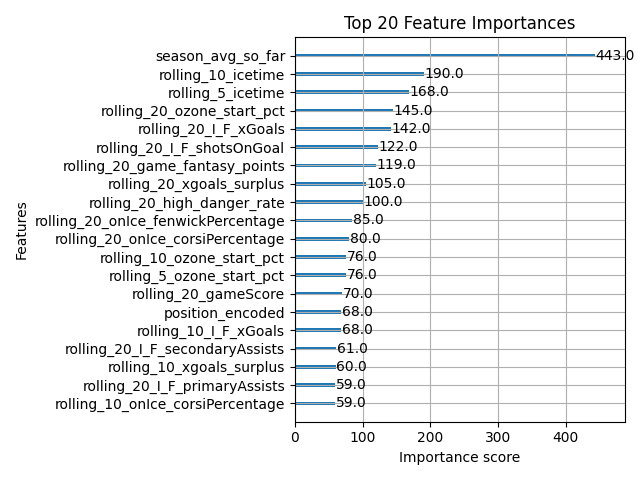
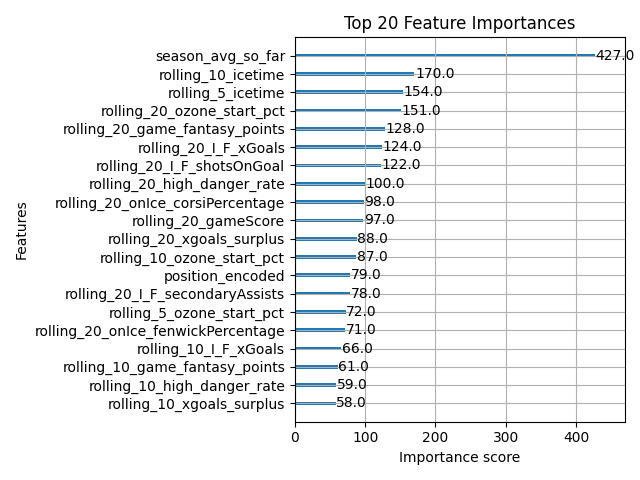
adding neural net and advanced features

diff --git a/src/models/lstmPickups.py b/src/models/lstmPickups.py
@@ -1,0 +1,140 @@
+import pandas as pd
+import torch
+import torch.nn as nn
+import numpy as np
+import os
+from sklearn.metrics import roc_auc_score
+from torch.utils.data import DataLoader
+from src.features.lstmFeatures import buildSequences, HockeySequenceDataset, SEQUENCE_FEATURES, loadLSTMData
+from sklearn.preprocessing import StandardScaler
+import pickle
+
+BASE_DIR = os.path.dirname(os.path.abspath(__file__))
+MODEL_PATH = os.path.join(BASE_DIR, '..', '..', 'models', 'lstm', 'model.pt')
+SCALER_PATH = os.path.join(BASE_DIR, '..', '..', 'models', 'lstm', 'scaler.pkl')
+
+class LSTMPickupModel(nn.Module):
+    def __init__(self, input_size, hidden_size=128, num_layers=2, dropout=0.3):
+        super().__init__()
+        self.lstm = nn.LSTM(input_size, hidden_size, num_layers, 
+                           batch_first=True, dropout=dropout)
+        self.fc = nn.Linear(hidden_size, 1)
+        self.sigmoid = nn.Sigmoid()
+
+    def forward(self, x):
+        _, (hidden, _) = self.lstm(x)
+        out = self.fc(hidden[-1])
+        return out.squeeze(1)
+    
+def train(epochs=30, batch_size=512, hidden_size=64, num_layers=2, dropout=0.3):
+    from src.features.mlFeatures import buildLabel
+    device = torch.device('cuda' if torch.cuda.is_available() else 'cpu')
+    print(f"Training on: {device}")
+
+    best_auc = 0
+    patience = 5
+    epochs_without_improvement = 0
+
+    lstm_df = loadLSTMData()
+    lstm_df = buildLabel(lstm_df)
+    lstm_df = lstm_df[lstm_df['season'] <= 2024]
+
+    train_df = lstm_df[lstm_df['season'] <= 2022]
+    val_df = lstm_df[lstm_df['season'] == 2023]
+
+    
+    X_train, y_train, _ = buildSequences(train_df)
+    X_val, y_val, _ = buildSequences(val_df)
+    scaler = StandardScaler()
+    X_train = scaler.fit_transform(X_train.reshape(-1, X_train.shape[-1])).reshape(X_train.shape)
+    X_val = scaler.transform(X_val.reshape(-1, X_val.shape[-1])).reshape(X_val.shape)
+    
+    train_loader = DataLoader(HockeySequenceDataset(X_train, y_train), 
+                              batch_size=batch_size, shuffle=True)
+    val_loader = DataLoader(HockeySequenceDataset(X_val, y_val), 
+                            batch_size=batch_size, shuffle=False)
+
+    model = LSTMPickupModel(input_size=len(SEQUENCE_FEATURES), 
+                            hidden_size=hidden_size, 
+                            num_layers=num_layers, 
+                            dropout=dropout).to(device)
+
+    optimizer = torch.optim.Adam(model.parameters(), lr=1e-3)
+    criterion = nn.BCEWithLogitsLoss()
+
+    for epoch in range(epochs):
+        model.train()
+        for X_batch, y_batch in train_loader:
+            X_batch, y_batch = X_batch.to(device), y_batch.to(device)
+            optimizer.zero_grad()
+            preds = model(X_batch)
+            loss = criterion(preds, y_batch)
+            loss.backward()
+            torch.nn.utils.clip_grad_norm_(model.parameters(), max_norm=1.0)
+            optimizer.step()
+
+        # Validation
+        model.eval()
+        all_preds, all_labels = [], []
+        with torch.no_grad():
+            for X_batch, y_batch in val_loader:
+                X_batch = X_batch.to(device)
+                preds = model(X_batch).cpu().numpy()
+                all_preds.extend(preds)
+                all_labels.extend(y_batch.numpy())
+
+        val_auc = roc_auc_score(all_labels, all_preds)
+        print(f"Epoch {epoch+1}/{epochs} — Val AUC: {val_auc:.4f}")
+
+        if val_auc > best_auc:
+            best_auc = val_auc
+            epochs_without_improvement = 0
+            save(model)  # only save when improved
+        else:
+            epochs_without_improvement += 1
+            if epochs_without_improvement >= patience:
+                print(f"Early stopping at epoch {epoch+1}, best AUC: {best_auc:.4f}")
+                break
+
+    with open(SCALER_PATH, 'wb') as f:
+        pickle.dump(scaler, f)
+
+def predict(df):
+    device = torch.device('cuda' if torch.cuda.is_available() else 'cpu')
+    model = load().to(device)
+
+    X, _, player_ids = buildSequences(df, has_label=False)
+    
+    with open(SCALER_PATH, 'rb') as f:
+        scaler = pickle.load(f)
+    X = scaler.transform(X.reshape(-1, X.shape[-1])).reshape(X.shape)
+    dummy_y = np.zeros(len(X), dtype=np.float32)  # Placeholder since we don't have labels for prediction
+    dataset = HockeySequenceDataset(X, dummy_y)
+    loader = DataLoader(dataset, batch_size=512, shuffle=False)
+
+    all_preds = []
+    model.eval()
+    with torch.no_grad():
+        for X_batch, _ in loader:
+            X_batch = X_batch.to(device)
+            preds = torch.sigmoid(model(X_batch)).cpu().numpy()
+            all_preds.extend(preds)
+
+    preds_series = pd.Series(all_preds, index=player_ids)
+    return preds_series.groupby(level=0).last()
+
+def save(model, hidden_size, num_layers):
+    os.makedirs(os.path.dirname(MODEL_PATH), exist_ok=True)
+    torch.save({'state_dict': model.state_dict(), 
+                'hidden_size': hidden_size, 
+                'num_layers': num_layers}, MODEL_PATH)
+
+
+def load():
+    checkpoint = torch.load(MODEL_PATH, weights_only=True)
+    model = LSTMPickupModel(input_size=len(SEQUENCE_FEATURES),
+                            hidden_size=checkpoint['hidden_size'],
+                            num_layers=checkpoint['num_layers'])
+    model.load_state_dict(checkpoint['state_dict'])
+    model.eval()
+    return model

diff --git a/src/features/lstmFeatures.py b/src/features/lstmFeatures.py
@@ -1,0 +1,70 @@
+import numpy as np
+import pandas as pd
+import torch
+import os
+from torch.utils.data import Dataset
+
+SEQUENCE_LENGTH = 10
+
+SEQUENCE_FEATURES = [
+    'I_F_goals', 'I_F_primaryAssists', 'I_F_secondaryAssists',
+    'I_F_shotsOnGoal', 'I_F_xGoals', 'gameScore', 'icetime',
+    'onIce_corsiPercentage', 'onIce_fenwickPercentage',
+    'ozone_start_pct', 'high_danger_rate', 'position_encoded'
+]
+COLS_NEEDED = [
+    'playerId', 'name', 'season', 'gameDate', 'situation', 'position',
+    'I_F_goals', 'I_F_primaryAssists', 'I_F_secondaryAssists',
+    'I_F_shotsOnGoal', 'I_F_xGoals', 'gameScore', 'icetime',
+    'onIce_corsiPercentage', 'onIce_fenwickPercentage',
+    'I_F_oZoneShiftStarts', 'I_F_dZoneShiftStarts',
+    'I_F_highDangerShots'
+]
+
+def loadLSTMData():
+    RAW_DATA_DIR_LOCAL = os.path.join(os.path.dirname(os.path.abspath(__file__)), '../..', 'data', 'raw')
+    historical = pd.read_csv(os.path.join(RAW_DATA_DIR_LOCAL, '2008_to_2024.csv'), usecols=COLS_NEEDED)
+    historical = historical[historical['situation'] == 'all']
+    historical = historical[historical['season'] >= 2016]
+    current = pd.read_csv(os.path.join(RAW_DATA_DIR_LOCAL, 'moneypuck_current.csv'), usecols=COLS_NEEDED)
+    current = current[current['situation'] == 'all']
+    df = pd.concat([historical, current], ignore_index=True).copy()
+    df.sort_values(by=['playerId', 'gameDate'], inplace=True)
+    df['ozone_start_pct'] = df['I_F_oZoneShiftStarts'] / (df['I_F_oZoneShiftStarts'] + df['I_F_dZoneShiftStarts']).replace(0, 1)
+    df['high_danger_rate'] = df['I_F_highDangerShots'] / df['I_F_shotsOnGoal'].replace(0, 1)
+    position_mapping = {'C': 0, 'L': 1, 'R': 2, 'D': 3}
+    df['position_encoded'] = df['position'].map(position_mapping)
+    df['game_fantasy_points'] = (df['I_F_goals'] * 3 +
+                              df['I_F_primaryAssists'] * 2 +
+                              df['I_F_secondaryAssists'] * 2 +
+                              df['I_F_shotsOnGoal'] * 0.15)
+
+    df['season_avg_so_far'] = (df.groupby(['playerId', 'season'])['game_fantasy_points']
+                                .transform(lambda x: x.shift(1).expanding().mean()))
+    return df
+
+def buildSequences(df, sequence_length=SEQUENCE_LENGTH, has_label=True):
+    X, y, player_ids = [], [], []
+    for player_id, player_df in df.groupby('playerId'):
+        player_df = player_df.sort_values('gameDate').reset_index(drop=True)
+        for i in range(len(player_df) - sequence_length):
+            seq = player_df.iloc[i:i + sequence_length][SEQUENCE_FEATURES].values
+            X.append(seq)
+            player_ids.append(player_id)
+            if has_label:
+                label = player_df.iloc[i + sequence_length]['is_heating_up']
+                y.append(label)
+
+    return np.array(X, dtype=np.float32), np.array(y, dtype=np.float32) if has_label else None, player_ids
+
+    
+class HockeySequenceDataset(Dataset):
+    def __init__(self, X, y):
+        self.X = torch.tensor(X)
+        self.y = torch.tensor(y)
+
+    def __len__(self):
+        return len(self.X)
+
+    def __getitem__(self, idx):
+        return self.X[idx], self.y[idx]

diff --git a/src/models/pickups.py b/src/models/pickups.py
@@ -13,6 +13,8 @@ import pandas as pd
 import xgboost as xgb
 from sklearn.metrics import roc_auc_score, classification_report, RocCurveDisplay
 import matplotlib.pyplot as plt
+from sklearn.model_selection import RandomizedSearchCV, PredefinedSplit
+import numpy as np
 
 
 from src.features.mlFeatures import buildFeatureMatrix
@@ -26,18 +28,39 @@ def train(df: pd.DataFrame):
     val_df = df[df['season'] == 2023]
     X_train, y_train = buildFeatureMatrix(train_df, label_col='is_heating_up')
     X_val, y_val = buildFeatureMatrix(val_df, label_col='is_heating_up')
-    model = xgb.XGBClassifier(
-        n_estimators=100,
-        max_depth=5,
-        learning_rate=0.1,
-        eval_metric='logloss',
+    split_indicator = [-1] * len(X_train) + [0] * len(X_val)
+    ps = PredefinedSplit(split_indicator)
+    X_all = pd.concat([X_train, X_val])
+    y_all = pd.concat([y_train, y_val])
+    param_dist = {
+        'n_estimators': [100, 200, 300],
+        'max_depth': [3, 4, 5],
+        'learning_rate': [0.01, 0.05, 0.1],
+        'subsample': [0.7, 0.8, 0.9],
+        'colsample_bytree': [0.7, 0.8, 1.0],
+    }
+
+    search = RandomizedSearchCV(
+        xgb.XGBClassifier(eval_metric='logloss'),
+        param_distributions=param_dist,
+        n_iter=20,
+        scoring='roc_auc',
+        cv=ps,
+        random_state=42,
+        verbose=1,
     )
-    model.fit(X_train, y_train, eval_set=[(X_val, y_val)], verbose=True)
+    search.fit(X_all, y_all)
+    model = search.best_estimator_
+    print("Best params:", search.best_params_)
+    print(f"Best val AUC: {search.best_score_:.4f}")
     save(model)
     proba = model.predict_proba(X_val)[:, 1]
     preds = model.predict(X_val)
 
-    print(f"ROC AUC: {roc_auc_score(y_val, proba):.4f}")
+    train_proba = model.predict_proba(X_train)[:, 1]
+    print(f"Train AUC: {roc_auc_score(y_train, train_proba):.4f}")
+    print(f"Val AUC:   {roc_auc_score(y_val, proba):.4f}")
+
     print(classification_report(y_val, preds))
 
     RocCurveDisplay.from_predictions(y_val, proba)

diff --git a/main.py b/main.py
@@ -1,3 +1,4 @@
+from src.features.lstmFeatures import SEQUENCE_FEATURES
 from src.features import mlFeatures
 from src import fantasyPoints
 from src import dataProcessing
@@ -5,7 +6,7 @@ from src import yahooAPI
 from src.features import pickups
 from src.models import pickups as pickupModel
 from src.models import cooling as coolingModel
-
+from src.models import lstmPickups as lstmModel
 
 def main():
     # Load player roster and flatten names
@@ -37,6 +38,9 @@ def main():
     current_df = df[df['season'] == 2025].copy()
 
     historical_df = mlFeatures.buildLabel(historical_df)
+    print(historical_df[SEQUENCE_FEATURES].isna().sum())
+    # lstmModel.train()
+    # lstm_scores = lstmModel.predict(current_df)
     pickupModel.train(historical_df)
 
     # Predict on current season using most recent game state per player
@@ -46,6 +50,7 @@ def main():
     current_players = current_players[current_players['gamesPlayed'] >= 20]
 
     current_players['ml_score'] = pickupModel.predict(current_players)
+    # current_players['lstm_score'] = current_players['playerId'].map(lstm_scores)
 
     current_players = current_players.merge(
         allPlayerData[['id', 'full_name', 'positionCode']],
@@ -54,17 +59,16 @@ def main():
         how='left'
     )
     current_players['display_name'] = current_players['full_name'].fillna(current_players['name'])
-
     results['weighted_score_normalized'] = (results['weighted_score'] - results['weighted_score'].min()) / (results['weighted_score'].max() - results['weighted_score'].min())
+
     combined = results.merge(current_players[['playerId', 'ml_score']], 
-                         left_on='player_id', right_on='playerId', how='left')
+                            left_on='player_id', right_on='playerId', how='left')
     combined = combined.dropna(subset=['ml_score'])
     combined['final_score'] = 0.3 * combined['weighted_score_normalized'] + 0.7 * combined['ml_score']
     print(combined[['full_name', 'positionCode', 'weighted_score', 'ml_score', 'final_score']]
-      .sort_values('final_score', ascending=False)
-      .head(20)
-      .to_string())
-
+        .sort_values('final_score', ascending=False)
+        .head(20)
+        .to_string())
     
     coolingModel.train(historical_df)
     current_players['cooling_score'] = coolingModel.predict(current_players)

diff --git a/src/features/mlFeatures.py b/src/features/mlFeatures.py
@@ -14,7 +14,7 @@ def loadMoneyPuckData():
                                             moneyPuckData['I_F_primaryAssists'] * 2 +
                                             moneyPuckData['I_F_secondaryAssists'] * 2 +
                                             moneyPuckData['I_F_shotsOnGoal'] * 0.15)
-    moneyPuckData['ozone_start_pct'] = moneyPuckData['I_F_oZoneShiftStarts'] / (moneyPuckData['I_F_oZoneShiftStarts'] + moneyPuckData['I_F_dZoneShiftStarts'])
+    moneyPuckData['ozone_start_pct'] = moneyPuckData['I_F_oZoneShiftStarts'] / ((moneyPuckData['I_F_oZoneShiftStarts'] + moneyPuckData['I_F_dZoneShiftStarts']).replace(0, 1))
     moneyPuckData['xgoals_surplus'] = moneyPuckData['I_F_goals'] - moneyPuckData['I_F_xGoals']
     moneyPuckData['high_danger_rate'] = moneyPuckData['I_F_highDangerShots'] / moneyPuckData['I_F_shotsOnGoal'].replace(0, 1)
     position_mapping = {'C': 0, 'L': 1, 'R': 2, 'D': 3}